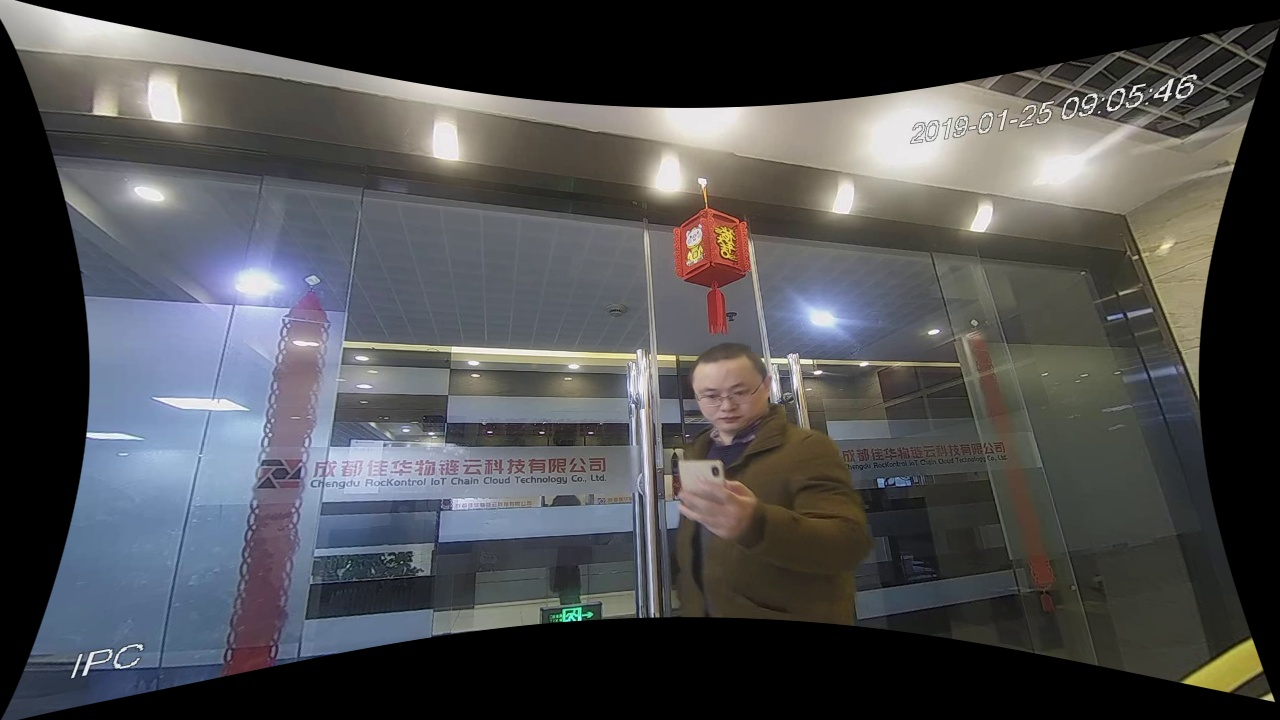
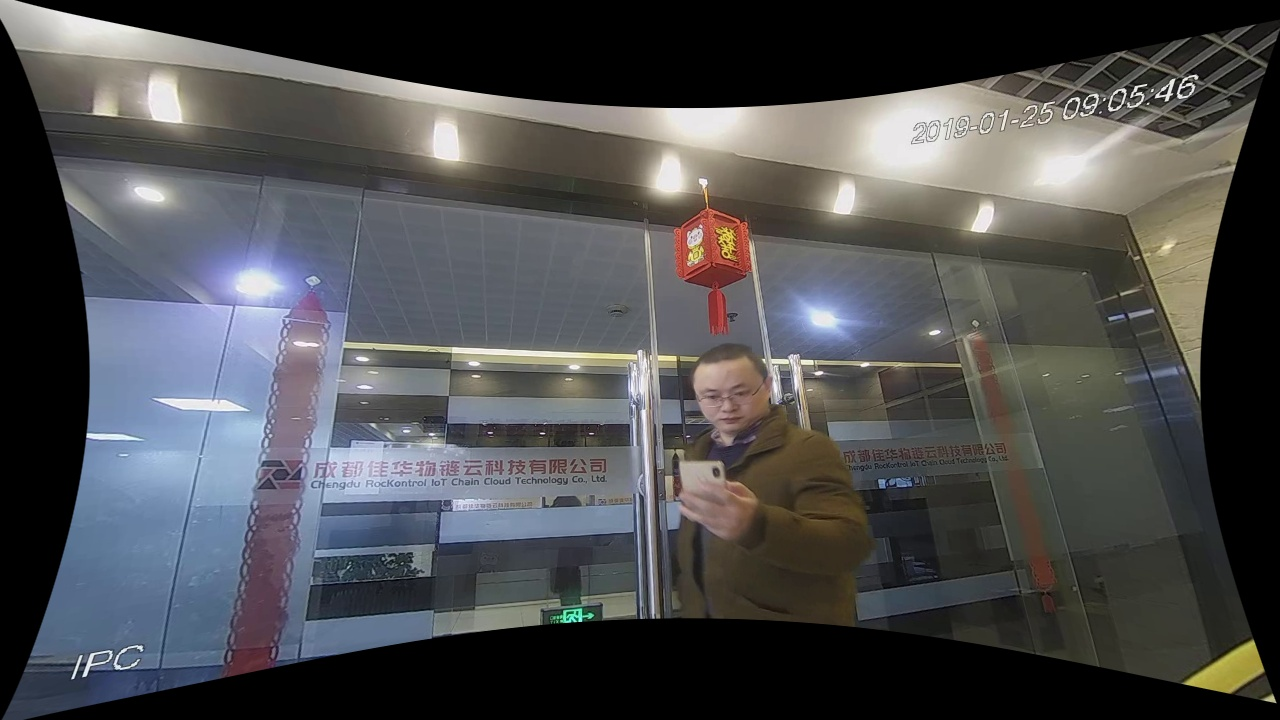
add: findEssentialMat support for non-matrix camera definitions, matrix camera definitions, and multiple matrix camera definitions

diff --git a/calib3d.go b/calib3d.go
@@ -401,3 +401,162 @@ const (
 func FindHomography(srcPoints Mat, targetPoints Mat, method HomographyMethod, ransacReprojThreshold float64, mask *Mat, maxIters int, confidence float64) Mat {
 	return newMat(C.FindHomography(srcPoints.Ptr(), targetPoints.Ptr(), C.int(method), C.double(ransacReprojThreshold), mask.Ptr(), C.int(maxIters), C.double(confidence)))
 }
+
+type MatrixComputationMethod int
+
+const (
+	MatrixComputationLMEDS MatrixComputationMethod = 4
+	MatrixComputationRANSAC MatrixComputationMethod = 8
+)
+
+// FindEssentialMatrix calculates an essential matrix from the corresponding points in two images.
+// FindEssentialMatrix with a camera matrix: FindEssentialMatrixCameraMat.
+// FindEssentialMatrix with images from different cameras: FindEssentialMatrixDifferentCameras.
+//
+// For further details, please see:
+// https://docs.opencv.org/4.13.0/d9/d0c/group__calib3d.html#gad245d60e64d0c1270dbfd0520847bb87
+func FindEssentialMatrixFocalLength(points1, points2 Mat) Mat {
+	empty := NewMat()
+	defer empty.Close()
+
+	return FindEssentialMatrixFocalLengthWithParams(
+		points1,
+		points2,
+		1.0,
+		image.Point {0, 0},
+		MatrixComputationRANSAC,
+		0.999,
+		1.0,
+		1000,
+		empty,
+	)
+}
+
+// FindEssentialMatrix calculates an essential matrix from the corresponding points in two images.
+// FindEssentialMatrix with a camera matrix: FindEssentialMatrixCameraMat.
+// FindEssentialMatrix with images from different cameras: FindEssentialMatrixDifferentCameras.
+//
+// For further details, please see:
+// https://docs.opencv.org/4.13.0/d9/d0c/group__calib3d.html#gad245d60e64d0c1270dbfd0520847bb87
+func FindEssentialMatrixFocalLengthWithParams(
+	points1, points2 Mat,
+	focalLen float64,
+	principalPoint image.Point,
+	method MatrixComputationMethod,
+	prob, threshold float64,
+	maxIters int,
+	mask Mat,
+) Mat {
+	pp := C.struct_Point{
+		x: C.int(principalPoint.X),
+		y: C.int(principalPoint.Y),
+	}
+
+	return newMat(C.FindEssentialMatrix_FocalLength(
+		points1.Ptr(), points2.Ptr(),
+		C.double(focalLen),
+		pp,
+		C.int(method),
+		C.double(prob),
+		C.double(threshold),
+		C.int(maxIters),
+		mask.Ptr(),
+	))
+}
+
+// FindEssentialMatrix calculates an essential matrix from the corresponding points in two images.
+// To use FindEssentialMatrix with a focal length and optical centre: FindEssentialMatrixFocalLength.
+// FindEssentialMatrix with images from different cameras: FindEssentialMatrixDifferentCameras.
+//
+// For further details, please see:
+// https://docs.opencv.org/4.13.0/d9/d0c/group__calib3d.html#gad245d60e64d0c1270dbfd0520847bb87
+func FindEssentialMatrixCameraMat(points1, points2, cameraMatrix Mat) Mat {
+	empty := NewMat()
+	defer empty.Close()
+	
+	return FindEssentialMatrixCameraMatWithParams(
+		points1,
+		points2,
+		cameraMatrix,
+		MatrixComputationRANSAC,
+		0.999,
+		1.0,
+		1000,
+		empty,
+	)
+}
+
+// FindEssentialMatrix calculates an essential matrix from the corresponding points in two images.
+// FindEssentialMatrix with a focal length and optical centre: FindEssentialMatrixFocalLength.
+// FindEssentialMatrix with images from different cameras: FindEssentialMatrixDifferentCameras.
+//
+// For further details, please see:
+// https://docs.opencv.org/4.13.0/d9/d0c/group__calib3d.html#gad245d60e64d0c1270dbfd0520847bb87
+func FindEssentialMatrixCameraMatWithParams(
+	points1, points2, cameraMatrix Mat,
+	method MatrixComputationMethod,
+	prob, threshold float64,
+	maxIters int,
+	mask Mat,
+) Mat {
+	return newMat(C.FindEssentialMatrix_CameraMat(
+		points1.Ptr(), points2.Ptr(),
+		cameraMatrix.Ptr(),
+		C.int(method),
+		C.double(prob),
+		C.double(threshold),
+		C.int(maxIters),
+		mask.Ptr(),
+	))
+}
+
+// FindEssentialMatrix calculates an essential matrix from the corresponding points in two images from different cameras.
+// FindEssentialMatrix for different source image with USAC is not implemented.
+// FindEssentialMatrix for same source images with a camera matrix: FindEssentialMatrixCameraMat.
+// FindEssentialMatrix for same source images with a focal length and optical centre: FindEssentialMatrixFocalLength.
+//
+// For further details, please see:
+// https://docs.opencv.org/4.13.0/d9/d0c/group__calib3d.html#gad245d60e64d0c1270dbfd0520847bb87
+func FindEssentialMatrixDifferentCameras(
+	points1, points2, cameraMatrix1, cameraMatrix2, distCoeff1, distCoeff2 Mat,
+) Mat {
+	empty := NewMat()
+	defer empty.Close()
+	
+	return FindEssentialMatrixDifferentCamerasWithParams(
+		points1,
+		points2,
+		cameraMatrix1,
+		cameraMatrix2,
+		distCoeff1,
+		distCoeff2,
+		MatrixComputationRANSAC,
+		0.999,
+		1.0,
+		empty,
+	)
+}
+
+// FindEssentialMatrix calculates an essential matrix from the corresponding points in two images from different cameras.
+// FindEssentialMatrix for different source image with USAC is not implemented.
+// FindEssentialMatrix for same source images with a camera matrix: FindEssentialMatrixCameraMat.
+// FindEssentialMatrix for same source images with a focal length and optical centre: FindEssentialMatrixFocalLength.
+//
+// For further details, please see:
+// https://docs.opencv.org/4.13.0/d9/d0c/group__calib3d.html#gad245d60e64d0c1270dbfd0520847bb87
+func FindEssentialMatrixDifferentCamerasWithParams(
+	points1, points2, cameraMatrix1, cameraMatrix2, distCoeff1, distCoeff2 Mat,
+	method MatrixComputationMethod,
+	prob, threshold float64,
+	mask Mat,
+) Mat {
+	return newMat(C.FindEssentialMatrix_DifferentCameras(
+		points1.Ptr(), points2.Ptr(),
+		cameraMatrix1.Ptr(), cameraMatrix2.Ptr(),
+		distCoeff1.Ptr(), distCoeff2.Ptr(),
+		C.int(method),
+		C.double(prob),
+		C.double(threshold),
+		mask.Ptr(),
+	))
+}

diff --git a/calib3d_test.go b/calib3d_test.go
@@ -1124,3 +1124,132 @@ func TestFindHomography(t *testing.T) {
 		}
 	}
 }
+
+// Used to create a test points matrix for TestFindEssentialMatrix* tests.
+func testFindEssentialMatrixNewDummyPoints(t *testing.T) (Mat, Mat) {
+	t.Helper()
+
+	pts1 := NewMatWithSize(5, 2, MatTypeCV64FC1)
+	pts2 := NewMatWithSize(5, 2, MatTypeCV64FC1)
+
+	coords1 := [5][2]float64{
+		{100, 120}, {200, 150}, {150, 280}, {310, 110}, {250, 220},
+	}
+	coords2 := [5][2]float64{
+		{95, 118}, {198, 149}, {147, 276}, {305, 112}, {245, 218},
+	}
+
+	for i := 0; i < 5; i++ {
+		pts1.SetDoubleAt(i, 0, coords1[i][0])
+		pts1.SetDoubleAt(i, 1, coords1[i][1])
+		pts2.SetDoubleAt(i, 0, coords2[i][0])
+		pts2.SetDoubleAt(i, 1, coords2[i][1])
+	}
+
+	return pts1, pts2
+}
+
+// Used to create a test camera matrix for TestFindEssentialMatrix* tests.
+func testFindEssentialMatrixNewDummyCameraMatrix(t *testing.T) Mat {
+	t.Helper()
+
+	camMat := NewMatWithSize(3, 3, MatTypeCV64FC1)
+	camMat.SetDoubleAt(0, 0, 800)
+	camMat.SetDoubleAt(0, 2, 320)
+	camMat.SetDoubleAt(1, 1, 800)
+	camMat.SetDoubleAt(1, 2, 240)
+	camMat.SetDoubleAt(2, 2, 1.0)
+	return camMat
+}
+
+// Used to verify output matrix consistency relative to expectations/
+func isMatrixExpected(t *testing.T, eMat Mat, mask *Mat) {
+	if eMat.Empty() {
+		t.Fatal("expected non-empty Essential Matrix, got empty")
+	}
+	if eMat.Cols() != 3 || eMat.Rows() < 3 || eMat.Rows()%3 != 0 {
+    	t.Errorf("expected 3k x3 matrix, got %dx%d", eMat.Rows(), eMat.Cols())
+	}
+	if mask != nil && mask.Empty() {
+		t.Errorf("expected non-empty mask output from RANSAC, got empty")
+	}
+	eMat.Close()
+}
+
+func TestFindEssentialMatrixFocalLength(t *testing.T) {
+	pts1, pts2 := testFindEssentialMatrixNewDummyPoints(t)
+	defer pts1.Close()
+	defer pts2.Close()
+
+	isMatrixExpected(t, FindEssentialMatrixFocalLength(pts1, pts2), nil)
+	
+	mask := NewMat()
+	defer mask.Close()
+	isMatrixExpected(t, FindEssentialMatrixFocalLengthWithParams(
+		pts1,
+		pts2,
+		800.0,
+		image.Pt(320, 240),
+		MatrixComputationRANSAC,
+		0.99,
+		1.0,
+		1000,
+		mask,
+	), &mask)
+}
+
+func TestFindEssentialMatrixCameraMat(t *testing.T) {
+	pts1, pts2 := testFindEssentialMatrixNewDummyPoints(t)
+	defer pts1.Close()
+	defer pts2.Close()
+	camMat := testFindEssentialMatrixNewDummyCameraMatrix(t)
+	defer camMat.Close()
+
+	isMatrixExpected(t, FindEssentialMatrixCameraMat(pts1, pts2, camMat), nil)
+
+	mask := NewMat()
+	defer mask.Close()
+	isMatrixExpected(t, FindEssentialMatrixCameraMatWithParams(
+		pts1,
+		pts2,
+		camMat,
+		MatrixComputationRANSAC,
+		0.99,
+		1.0,
+		1000,
+		mask,
+	), &mask)
+}
+
+func TestFindEssentialMatrixDifferentCameras(t *testing.T) {
+	pts1, pts2 := testFindEssentialMatrixNewDummyPoints(t)
+	defer pts1.Close()
+	defer pts2.Close()
+	camMat1 := testFindEssentialMatrixNewDummyCameraMatrix(t)
+	defer camMat1.Close()
+	camMat2 := testFindEssentialMatrixNewDummyCameraMatrix(t)
+	defer camMat2.Close()
+	distCoeff1 := NewMat()
+	defer distCoeff1.Close()
+	distCoeff2 := NewMat()
+	defer distCoeff2.Close()
+
+	isMatrixExpected(t, FindEssentialMatrixDifferentCameras(
+		pts1, pts2, camMat1, camMat2, distCoeff1, distCoeff2,
+	), nil)
+
+	mask := NewMat()
+	defer mask.Close()
+	isMatrixExpected(t, FindEssentialMatrixDifferentCamerasWithParams(
+		pts1,
+		pts2,
+		camMat1,
+		camMat2,
+		distCoeff1,
+		distCoeff2,
+		MatrixComputationRANSAC,
+		0.99,
+		1.0,
+		mask,
+	), &mask)
+}

diff --git a/calib3d.cpp b/calib3d.cpp
@@ -262,3 +262,31 @@ Mat FindHomography(Mat src, Mat dst, int method, double ransacReprojThreshold, M
         return new cv::Mat();
     }
 }
+
+Mat FindEssentialMatrix_FocalLength(Mat points1, Mat points2, double focalLen, Point ppPt, int method, double prob, double threshold, int maxIters, Mat mask) {
+    cv::Point2d pp(ppPt.x, ppPt.y);
+    try {
+        return new cv::Mat(cv::findEssentialMat(*points1, *points2, focalLen, pp, method, prob, threshold, maxIters, *mask));
+    } catch (const cv::Exception& e) {
+        setExceptionInfo(e.code, e.what());
+        return new cv::Mat();
+    }
+}
+
+Mat FindEssentialMatrix_CameraMat(Mat points1, Mat points2, Mat cameraMatrix, int method, double prob, double threshold, int maxIters, Mat mask) {
+    try {
+        return new cv::Mat(cv::findEssentialMat(*points1, *points2, *cameraMatrix, method, prob, threshold, maxIters, *mask));
+    } catch (const cv::Exception& e) {
+        setExceptionInfo(e.code, e.what());
+        return new cv::Mat();
+    }
+}
+
+Mat FindEssentialMatrix_DifferentCameras(Mat points1, Mat points2, Mat cameraMatrix1, Mat cameraMatrix2, Mat dist_coeff1, Mat dist_coeff2, int method, double prob, double threshold, Mat mask) {
+    try {
+        return new cv::Mat(cv::findEssentialMat(*points1, *points2, *cameraMatrix1, *dist_coeff1, *cameraMatrix2, *dist_coeff2, method, prob, threshold, *mask));
+    } catch (const cv::Exception& e) {
+        setExceptionInfo(e.code, e.what());
+        return new cv::Mat();
+    }
+}

diff --git a/calib3d.h b/calib3d.h
@@ -40,6 +40,9 @@ bool SolvePnP(Point3fVector objectPoints, Point2fVector imagePoints, Mat cameraM
 OpenCVResult ProjectPoints(Point3fVector objectPoints, Mat rvec, Mat tvec, Mat cameraMatrix, Mat distCoeffs, Point2fVector imagePoints);
 OpenCVResult StereoRectify(Mat cameraMatrix1, Mat distCoeffs1, Mat cameraMatrix2, Mat distCoeffs2, Size imageSize, Mat r, Mat t, Mat R1, Mat R2, Mat P1, Mat P2, Mat Q, int flags);
 Mat FindHomography(Mat src, Mat dst, int method, double ransacReprojThreshold, Mat mask, const int maxIters, const double confidence);
+Mat FindEssentialMatrix_FocalLength(Mat points1, Mat points2, double focalLen, Point ppPt, int method, double prob, double threshold, int maxIters, Mat mask);
+Mat FindEssentialMatrix_CameraMat(Mat points1, Mat points2, Mat cameraMatrix, int method, double prob, double threshold, int maxIters, Mat mask);
+Mat FindEssentialMatrix_DifferentCameras(Mat points1, Mat points2, Mat cameraMatrix1, Mat cameraMatrix2, Mat dist_coeff1, Mat dist_coeff2, int method, double prob, double threshold, Mat mask);
 #ifdef __cplusplus
 }
 #endif
